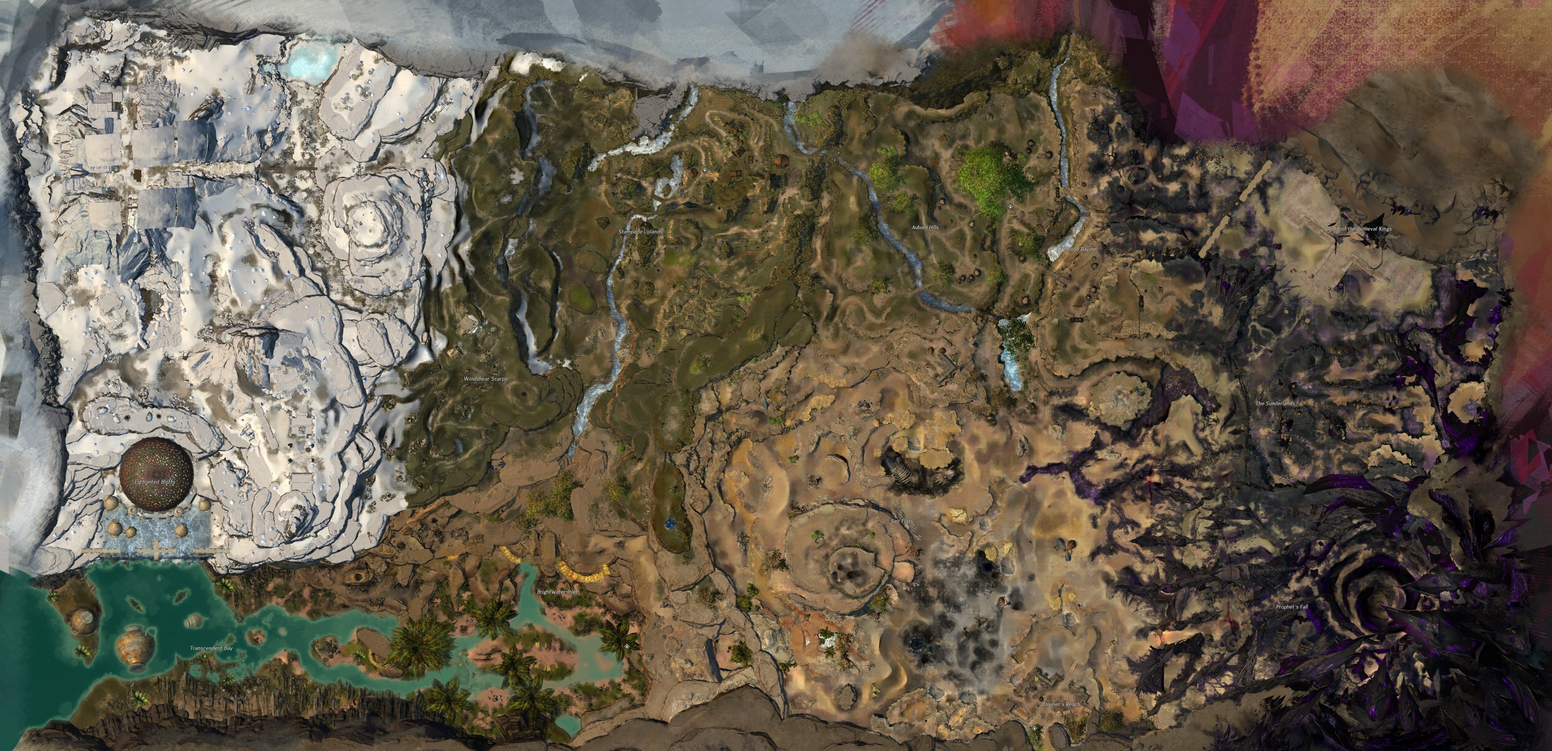
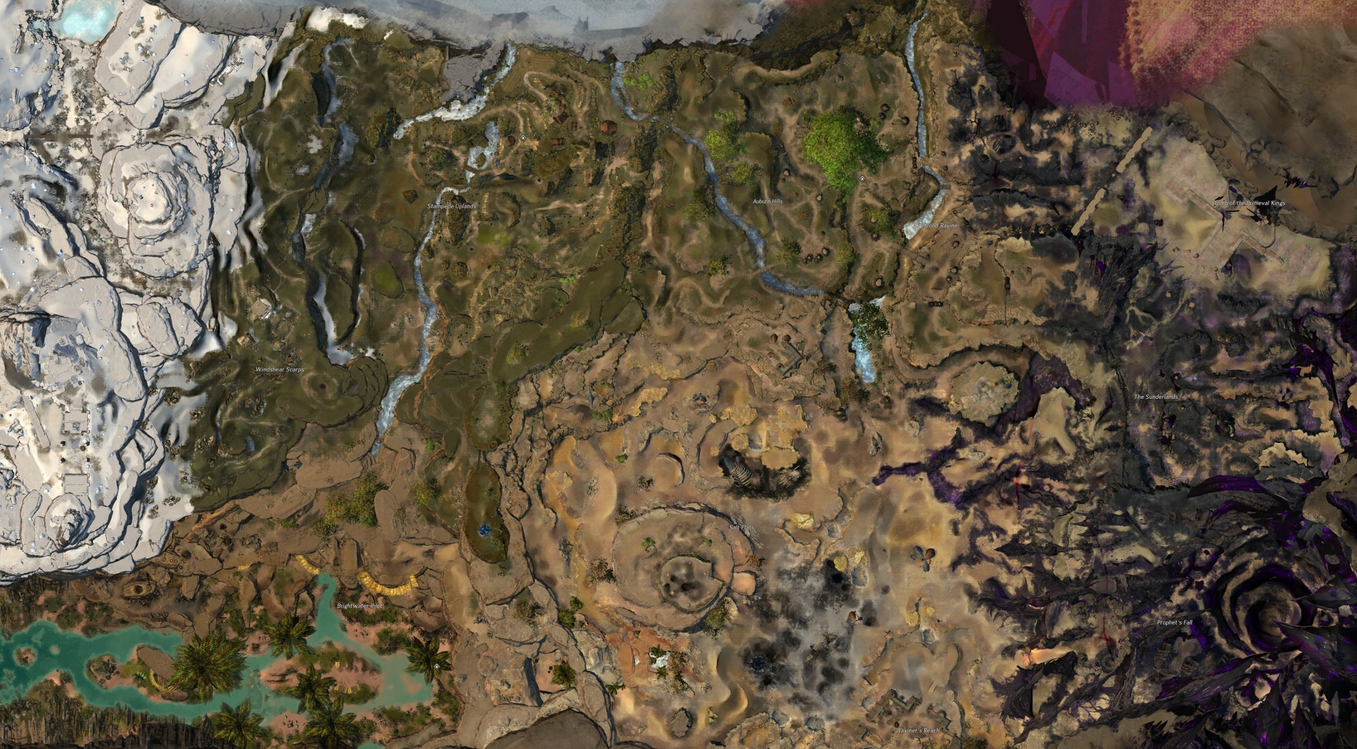
Fixed Desert HIghland timers

diff --git a/timers/desert-highlands.js b/timers/desert-highlands.js
@@ -187,6 +187,51 @@ var desert = {
             num: document.getElementById('numerical-sidetimer-desert-12'),
             doCountdown: function() { countdown(this.status, this.key, this.cooldown, this.timeLabel, this.timeSideLabel, this.sidebox, this.num); }
         },
+        {   // [13] Tosun Escort
+            status: 0,
+            key: 0,
+            cooldown: 60 * 13, 
+            startButton: document.getElementById('timer-desert-13-start'),
+            startSideButton: document.getElementById('sidetimer-desert-13-start'),
+            resetButton: document.getElementById('timer-desert-13-reset'),
+            resetSideButton: document.getElementById('sidetimer-desert-13-reset'),
+            timeLabel: document.getElementById('timer-desert-13'), 
+            timeSideLabel: document.getElementById('sidetimer-desert-13'),
+            textLabel: document.getElementById('timer-desert-13-text'),
+            sidebox: document.getElementById('desert-13-sidebox'),
+            num: document.getElementById('numerical-sidetimer-desert-13'),
+            doCountdown: function() { countdown(this.status, this.key, this.cooldown, this.timeLabel, this.timeSideLabel, this.sidebox, this.num); }
+        },
+        {   // [14] Branded Waves
+            status: 0,
+            key: 0,
+            cooldown: 60 * 7, 
+            startButton: document.getElementById('timer-desert-14-start'),
+            startSideButton: document.getElementById('sidetimer-desert-14-start'),
+            resetButton: document.getElementById('timer-desert-14-reset'),
+            resetSideButton: document.getElementById('sidetimer-desert-14-reset'),
+            timeLabel: document.getElementById('timer-desert-14'), 
+            timeSideLabel: document.getElementById('sidetimer-desert-14'),
+            textLabel: document.getElementById('timer-desert-14-text'),
+            sidebox: document.getElementById('desert-14-sidebox'),
+            num: document.getElementById('numerical-sidetimer-desert-14'),
+            doCountdown: function() { countdown(this.status, this.key, this.cooldown, this.timeLabel, this.timeSideLabel, this.sidebox, this.num); }
+        },
+        {   // [15] Drogg
+            status: 0,
+            key: 0,
+            cooldown: 60 * 12, 
+            startButton: document.getElementById('timer-desert-15-start'),
+            startSideButton: document.getElementById('sidetimer-desert-15-start'),
+            resetButton: document.getElementById('timer-desert-15-reset'),
+            resetSideButton: document.getElementById('sidetimer-desert-15-reset'),
+            timeLabel: document.getElementById('timer-desert-15'), 
+            timeSideLabel: document.getElementById('sidetimer-desert-15'),
+            textLabel: document.getElementById('timer-desert-15-text'),
+            sidebox: document.getElementById('desert-15-sidebox'),
+            num: document.getElementById('numerical-sidetimer-desert-15'),
+            doCountdown: function() { countdown(this.status, this.key, this.cooldown, this.timeLabel, this.timeSideLabel, this.sidebox, this.num); }
+        },
     ]
 };
 // Dynamically creates unique keys

diff --git a/styles.css b/styles.css
@@ -1771,6 +1771,7 @@ b{
 	font-size: 20px;
 	color: var(--clr-text);
 	vertical-align: middle;
+	float: right;
 }
 /* Hidden timer - This # is to track how many seconds in an event cooldown */
 .event-sidebox p2{
@@ -8150,23 +8151,23 @@ table.nodes td.nodes-cooldown{
 
 #desert-1-box{ /* Choya */
 	top: 85%;
-	left: 15%;
+	left: 52%;
 }
 #desert-2-box{ /* Sand Shark */
-	top: 75%;
-	left: 40%;
+	top: 70%;
+	left: 69%;
 }
 #desert-3-box{ /* Sand Eel */
-	top: 70%;
-	left: 20%;
+	top: 69%;
+	left: 55%;
 }
 #desert-4-box{ /* Yumma Escort */
-	top: 80%;
-	left: 30%;
+	top: 82%;
+	left: 61%;
 }
 #desert-5-box{ /* Yumug Escort */
 	top: 87.5%;
-	left: 36%;
+	left: 69%;
 }
 #desert-6-box{ /* Nayim Chain */
 	top: 80%;
@@ -8174,33 +8175,53 @@ table.nodes td.nodes-cooldown{
 	opacity: 0;
 }
 #desert-7-box{ /* Asho Escort */
-	top: 67%;
-	left: 26%;
+	top: 65%;
+	left: 61%;
 }
 #desert-8-box{ /* Mordant Crescent */
 	top: 58%;
 	left: 15%;
-	opacity: 0;
+	display: none;
 }
 #desert-9-box{ /* Ogre Escort */
-	top: 37%;
-	left: 68%;
+	top: 28%;
+	left: 82%;
 }
 #desert-10-box{ /* Dammer Escort */
-	top: 60%;
-	left: 2%;
+	top: 56%;
+	left: 40%;
 }
 #desert-11-box{ /* Forged Tormentor */
-	top: 70%;
-	left: 5%;
+	top: 69%;
+	left: 43%;
 }
 #desert-12-box{ /* Hostages */
-	top: 55%;
-	left: 22%;
+	top: 49%;
+	left: 54%;
+}
+#desert-13-box{ /* Tosun Escort */
+	top: 30%;
+	left: 9%;
+}
+#desert-14-box{ /* Branded Waves */
+	top: 26%;
+	left: 61%;
+}
+#desert-15-box{ /* Drogg */
+	top: 22%;
+	left: 54%;
 }
 #desert-info-box-1{ /* Hostages */
-	top: 56%;
-	left: 34%;
+	top: 49%;
+	left: 64%;
+}
+#desert-info-box-2{ /* Branded Waves */
+	top: 8%;
+	left: 64%;
+}
+#desert-info-box-3{ /* Drogg */
+	top: 8%;
+	left: 64%;
 }
 
 #crystal-1-box{ /* Raiding party N1 */

diff --git a/resources/provisioner-tokens.js b/resources/provisioner-tokens.js
@@ -43,7 +43,7 @@ async function provisionerTokens(){
 				qty: 1,
 				icon: "https://render.guildwars2.com/file/3C053CD2680D7DAE5E0899E8F6FF530D0E445704/221141.png", 
 			},
-		],	
+		],
 	}
 }
 

diff --git a/timers/desert-highlands.php b/timers/desert-highlands.php
@@ -118,9 +118,30 @@
       <div class = "event-sidebox" id = "desert-12-sidebox">
         <h1> Hostages </h1>
         <input type = "button" onclick = "start_stop(this, desert.events);" value = "Start" id = "sidetimer-desert-12-start">
-        <input type = "button" onclick = "reset(this, desert.events);" value = "&#8635;" id = "sidetimer-desert-12-reset">
         <p1 id = "sidetimer-desert-12">7:00</p1>
         <p2 id = "numerical-sidetimer-desert-12">420</p2>
+      </div> 
+
+      <div class = "event-sidebox" id = "desert-13-sidebox">
+        <h1> Tosun Escort </h1>
+        <input type = "button" onclick = "start_stop(this, desert.events);" value = "Start" id = "sidetimer-desert-13-start">
+        <input type = "button" onclick = "reset(this, desert.events);" value = "&#8635;" id = "sidetimer-desert-13-reset">
+        <p1 id = "sidetimer-desert-13">13:00</p1>
+        <p2 id = "numerical-sidetimer-desert-13">780</p2>
+      </div> 
+
+      <div class = "event-sidebox" id = "desert-14-sidebox">
+        <h1> Branded Waves </h1>
+        <input type = "button" onclick = "start_stop(this, desert.events);" value = "Start" id = "sidetimer-desert-14-start">
+        <p1 id = "sidetimer-desert-14">7:00</p1>
+        <p2 id = "numerical-sidetimer-desert-14">420</p2>
+      </div> 
+
+      <div class = "event-sidebox" id = "desert-15-sidebox">
+        <h1> Drogg </h1>
+        <input type = "button" onclick = "start_stop(this, desert.events);" value = "Start" id = "sidetimer-desert-15-start">
+        <p1 id = "sidetimer-desert-15">12:00</p1>
+        <p2 id = "numerical-sidetimer-desert-15">720</p2>
       </div> 
 	    
 	  </div> <!-- End of left side box --> 
@@ -269,8 +290,29 @@
         <h1> Hostages </h1>
         <br><p1 id = "timer-desert-12">7:00</p1>
         <br><input type = "button" onclick = "start_stop(this, desert.events);" value = "Start" id = "timer-desert-12-start">
-        <input type = "button" onclick = "reset(this, desert.events);" value = "&#8635;" id = "timer-desert-12-reset">
         <input type = "button" value = "i" onmouseover="showElement('desert-info-box-1'); " onmouseout = "hideElement('desert-info-box-1'); ">  
+      </div>
+
+      <div class = "event-box" id = "desert-13-box">
+        <h1> Tosun Escort </h1>
+        <br><p1 id = "timer-desert-13">13:00</p1>
+        <br><input type = "button" onclick = "start_stop(this, desert.events);" value = "Start" id = "timer-desert-13-start">
+        <input type = "button" onclick = "reset(this, desert.events);" value = "&#8635;" id = "timer-desert-13-reset">
+        <input type = "button" value = "i" onmouseover="showElement('desert-info-box-1'); " onmouseout = "hideElement('desert-info-box-1'); ">  
+      </div>
+
+      <div class = "event-box" id = "desert-14-box">
+        <h1> Branded Waves </h1>
+        <br><p1 id = "timer-desert-14">7:00</p1>
+        <br><input type = "button" onclick = "start_stop(this, desert.events);" value = "Start" id = "timer-desert-14-start">
+        <input type = "button" value = "i" onmouseover="showElement('desert-info-box-2'); " onmouseout = "hideElement('desert-info-box-2'); ">  
+      </div>
+
+      <div class = "event-box" id = "desert-15-box">
+        <h1> Drogg </h1>
+        <br><p1 id = "timer-desert-15">12:00</p1>
+        <br><input type = "button" onclick = "start_stop(this, desert.events);" value = "Start" id = "timer-desert-15-start">
+        <input type = "button" value = "i" onmouseover="showElement('desert-info-box-3'); " onmouseout = "hideElement('desert-info-box-3'); ">  
       </div>
 
       <!-- Event info --> 
@@ -278,13 +320,21 @@
       <div id = "desert-info-box-1" class = "event-info">
         Start this timer only after completing the Mordant Cresent event. 
       </div>
+      <!-- Branded Waves -->
+      <div id = "desert-info-box-2" class = "event-info">
+        Start this timer only after completing the Drogg gather + escort event chain. 
+      </div>
+      <!-- Drogg -->
+      <div id = "desert-info-box-3" class = "event-info">
+        Start this timer only after completing the Branded Waves event. 
+      </div>
     
 
 
 
 
        		<!-- Map -->
-			<img class = "map-timer-map" title = "desert Riverlands" src = "../images/desert-highlands/east-map.jpg"> 
+			<img class = "map-timer-map" title = "desert Riverlands" src = "../images/desert-highlands/map.jpg"> 
 
 		</div> <!-- End of map-box --> 
 	</div> <!-- End of map-timer-wrapper -->
